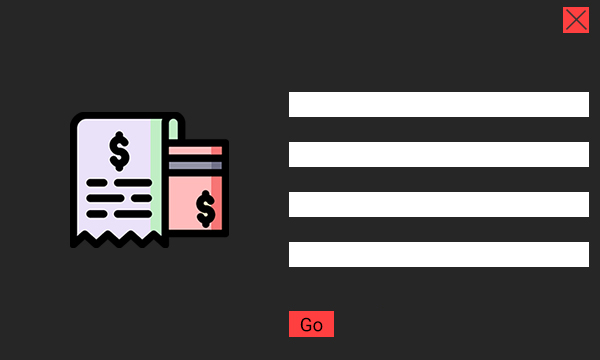
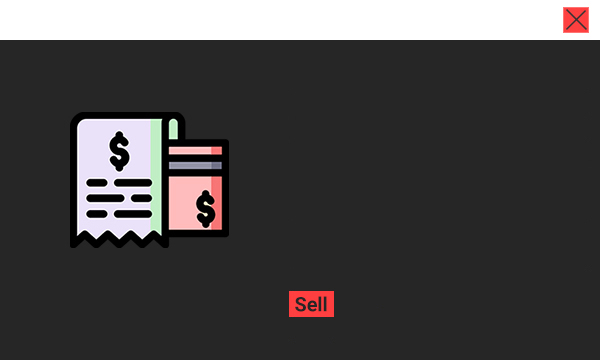
Design modification

diff --git a/src/main/java/com/github/transactions/newTransactionController.java b/src/main/java/com/github/transactions/newTransactionController.java
@@ -10,6 +10,7 @@ import javafx.scene.control.Button;
 import javafx.scene.control.MenuButton;
 import javafx.scene.control.MenuItem;
 import javafx.scene.control.TextField;
+import javafx.scene.layout.Pane;
 import javafx.stage.Stage;
 import com.github.main.Main;
 import com.github.services.DataStorageService;
@@ -23,16 +24,14 @@ import java.util.ResourceBundle;
 
 public class newTransactionController implements Initializable {
 
-    @FXML
-    public TextField brandField;
-    public TextField modelField;
-    public TextField valueField;
-    public TextField mileageField;
-    public Button goButton;
+
+    public Button sellButton;
     public Button exitButton;
-    public MenuButton menuButton;
-    public MenuItem buy;
-    public MenuItem sale;
+    public MenuButton brandMenu;
+    public MenuButton modelMenu;
+    public MenuButton valueMenu;
+    public MenuButton mileageMenu;
+    public Pane anchorPane;
 
     private String brand;
     private String model;
@@ -40,25 +39,11 @@ public class newTransactionController implements Initializable {
     private String mileage;
 
 
-    public static Boolean isBuying = false;
-    public static Boolean isSelling = false;
-    public void buyOptionSelected(ActionEvent actionEvent){
-        menuButton.setText("Buy");
-        isSelling = false;
-        isBuying = true;
-    }
-    public void saleOptionSelected(ActionEvent actionEvent){
-        menuButton.setText("Sale");
-        isSelling = true;
-        isBuying = false;
-    }
-
-
     public void onActionExitButton(ActionEvent actionEvent){
         Stage stage = (Stage) exitButton.getScene().getWindow();
         stage.close();
     }
-    public void onActionGoButton(ActionEvent actionEvent) throws IOException {
+    public void onActionSellButton(ActionEvent actionEvent) throws IOException {
         try {
             DataStorageService.addTransaction(processTransaction());
             TransactionsController.NEEDS_DATA_UPDATE.set(true);
@@ -71,6 +56,19 @@ public class newTransactionController implements Initializable {
         }
     }
 
+    public void onActionBrand(ActionEvent actionEvent){
+
+    }
+    public void onActionModel(ActionEvent actionEvent){
+
+    }
+    public void onActionValue(ActionEvent actionEvent){
+
+    }
+    public void onActionMileage(ActionEvent actionEvent){
+
+    }
+
     private Transaction processTransaction() throws IOException {
 
         Calendar cal = Calendar.getInstance();
@@ -80,51 +78,33 @@ public class newTransactionController implements Initializable {
                 .setParameter(0, Main.USER.getUsername())
                 .setParameter(1, Main.USER.getPassword()).getResultList().get(0);
 
-        if(isBuying){
-            Car car = new Car(null, brand, model, Double.parseDouble(value) * (-1), Integer.parseInt(mileage));
-            return new Transaction(null, car, date, salesman);
-        }
-        else{
-            Car car = DataStorageService.entityManager.createQuery("select c from Car c where c.brand = ?0 and c.model = ?1 and c.value = ?2 and c.mileage = ?3", Car.class)
-                    .setParameter(0, brand)
-                    .setParameter(1, model)
-                    .setParameter(2, Double.parseDouble(value))
-                    .setParameter(3, Integer.parseInt(mileage))
-                    .getResultList().get(0);
 
-            DataStorageService.removeCar(car);
+        Car car = DataStorageService.entityManager.createQuery("select c from Car c where c.brand = ?0 and c.model = ?1 and c.value = ?2 and c.mileage = ?3", Car.class)
+                .setParameter(0, brand)
+                .setParameter(1, model)
+                .setParameter(2, Double.parseDouble(value))
+                .setParameter(3, Integer.parseInt(mileage))
+                .getResultList().get(0);
 
-            return new Transaction(null, car, date, salesman);
-        }
+        DataStorageService.removeCar(car);
+
+        return new Transaction(null, car, date, salesman);
+
     }
 
     @Override
     public void initialize(URL url, ResourceBundle resourceBundle) {
 
-        brandField.textProperty().addListener((observable, oldValue, newValue) -> {
 
-            brand = newValue;
 
-        });
-        modelField.textProperty().addListener((observable, oldValue, newValue) -> model = newValue);
-        valueField.textProperty().addListener((observable, oldValue, newValue) -> {
+        sellButton.setDefaultButton(true);
 
-            if (!newValue.matches("\\d*")) {
-                valueField.setText(newValue.replaceAll("[^\\d]", ""));
-            }
-
-            value = newValue;
-        });
-        mileageField.textProperty().addListener((observable, oldValue, newValue) -> {
-
-                if (!newValue.matches("\\d*")) {
-                    mileageField.setText(newValue.replaceAll("[^\\d]", ""));
-                }
-
-                mileage = newValue;
+        anchorPane.setOnMousePressed(pressEvent -> {
+            anchorPane.setOnMouseDragged(dragEvent -> {
+                anchorPane.getScene().getWindow().setX(dragEvent.getScreenX() - pressEvent.getSceneX());
+                anchorPane.getScene().getWindow().setY(dragEvent.getScreenY() - pressEvent.getSceneY());
             });
-
-        goButton.setDefaultButton(true);
+        });
 
     }
 }

diff --git a/src/main/java/com/github/garage/newCarController.java b/src/main/java/com/github/garage/newCarController.java
@@ -6,6 +6,7 @@ import javafx.fxml.FXML;
 import javafx.fxml.Initializable;
 import javafx.scene.control.Button;
 import javafx.scene.control.TextField;
+import javafx.scene.layout.Pane;
 import javafx.stage.Stage;
 import com.github.services.DataStorageService;
 
@@ -22,6 +23,7 @@ public class newCarController implements Initializable {
     public TextField modelTextField;
     public TextField valueTextField;
     public TextField mileageTextField;
+    public Pane anchorPane;
 
     static String brand = null;
     static String model = null;
@@ -30,14 +32,14 @@ public class newCarController implements Initializable {
 
     public static Car newCar;
 
-    @FXML
+
     public void onActionExitButton(ActionEvent actionEvent){
 
         Stage stage = (Stage) exitButton.getScene().getWindow();
         stage.close();
     }
 
-    @FXML
+
     public void onActionInsertButton(ActionEvent actionEvent) throws IOException {
 
         newCar = new Car(null, brand, model, value, mileage);
@@ -48,6 +50,8 @@ public class newCarController implements Initializable {
 
 
     }
+
+
 
     @Override
     public void initialize(URL url, ResourceBundle resourceBundle) {
@@ -70,6 +74,13 @@ public class newCarController implements Initializable {
             }
 
             mileage = Integer.valueOf(newValue);
+        });
+
+        anchorPane.setOnMousePressed(pressEvent -> {
+            anchorPane.setOnMouseDragged(dragEvent -> {
+                anchorPane.getScene().getWindow().setX(dragEvent.getScreenX() - pressEvent.getSceneX());
+                anchorPane.getScene().getWindow().setY(dragEvent.getScreenY() - pressEvent.getSceneY());
+            });
         });
 
     }

diff --git a/src/main/java/com/github/services/DataStorageService.java b/src/main/java/com/github/services/DataStorageService.java
@@ -65,6 +65,24 @@ public class DataStorageService implements DataStorageInterface{
                 .executeUpdate();
         entityManager.getTransaction().commit();
     }
+    public static List<Car> findCarsByBrand(String brand){
+        return entityManager.createQuery("select c from Car c where c.brand = ?0", Car.class)
+                .setParameter(0, brand).getResultList();
+    }
+    public static List<Car> findCarsByModel(String model){
+        return entityManager.createQuery("select c from Car c where c.model = ?0", Car.class)
+                .setParameter(0, model).getResultList();
+    }
+    public static List<Car> findCarsByValue(Double value){
+        return entityManager.createQuery("select c from Car c where c.value = ?0", Car.class)
+                .setParameter(0, value).getResultList();
+    }
+    public static List<Car> findCarsByMileage(Integer mileage){
+        return entityManager.createQuery("select c from Car c where c.mileage = ?0", Car.class)
+                .setParameter(0, mileage).getResultList();
+    }
+
+
 
     public static void addTransaction(Transaction transaction) throws IOException, ParseException {
 
